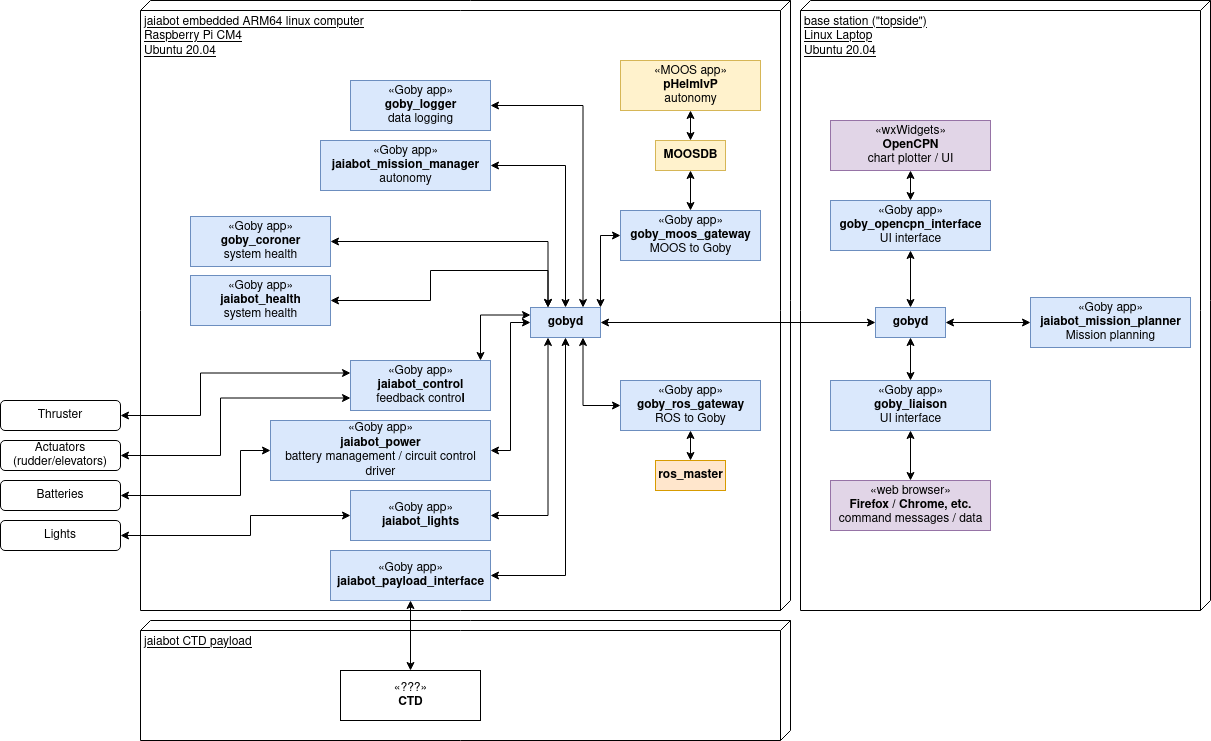
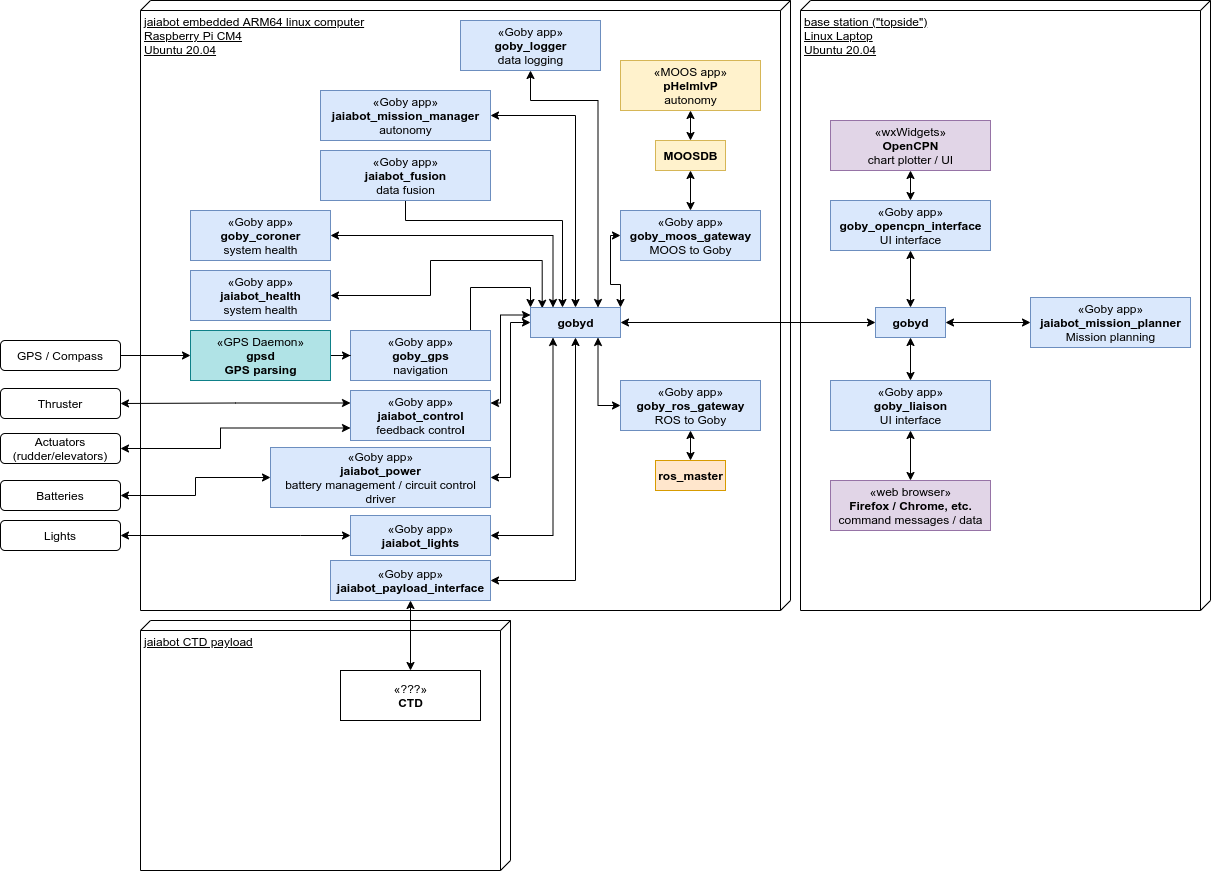
Added stub goby-clang-tool deployment. Added roadmap for simulator development (control/nav). Began describing applications to be run on the platform and topside

diff --git a/src/doc/markdown/page10_architecture.md b/src/doc/markdown/page10_architecture.md
@@ -14,3 +14,32 @@ Preliminary Jaiabot system block diagram:
 Goby3 forms the core of the communications design, providing interthread, interprocess, and intervehicle communications. MOOS-IvP provides the behavior-based autonomy implementation using the `pHelmIvP` multi-objective decision engine.
 
 In addition, we expect to support clients using `ROS` in the future.
+
+## Applications
+
+### Goby Applications
+
+#### In Goby3 project
+
+- `goby_logger`: Subscribes to messages in the gobyd and logs them to the disk.
+- `goby_coroner`: Provides health status from the output of each of the Goby applications.
+- `goby_ros_gateway`: Gateway to ROS middleware (not yet written).
+- `goby_moos_gateway`: Gateway to MOOS applications.
+- `goby_gps`: Takes GPS data from `gpsd` and publishes it to the gobyd.
+- `goby_opencpn_interface`: Interface from Goby3 to OpenCPN.
+
+#### In jaiabot-hydro project
+
+- `jaiabot_health`: Overall system health using data from `goby_coroner` and possibly other sources (TBD?).
+- `jaiabot_control`: Feedback controller (PID).
+- `jaiabot_power`: Power management and circuit control (if hardware supports this).
+- `jaiabot_lights`: Light control (perhaps part of `jaiabot_power` instead?).
+- `jaiabot_payload_interface`: Pluggable interface for different payload data feeds to be logged.
+- `jaiabot_mission_manager`: Keeps a state machine of the overall mission state and switches from pHelmIvP control to profile mode as required.
+- `jaiabot_fusion`: Assembles the `goby::middleware::frontseat::protobuf::NodeStatus` message used by the `goby_moos_gateway` from the `goby_gps` output and other sources, as needed. (Could we do this in an updated `goby_gps` and do away with the need for this application?)
+
+#### In the MOOS-IvP project
+
+- `pHelmIvP`: Pluggable behavior based autonomy.
+- `pNodeReporter`: Aggregates NAV_* variables into NODE_REPORT variable for pHelmIvP.
+
